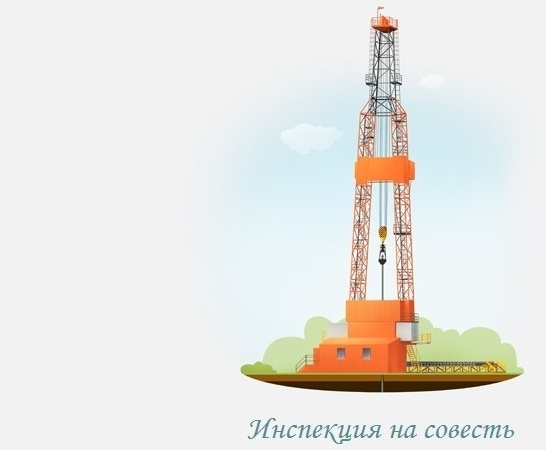
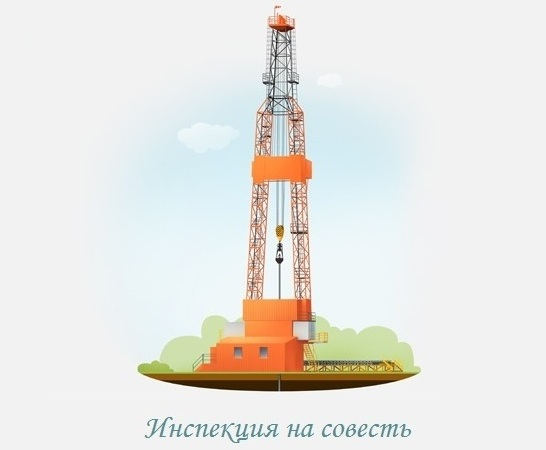
1

diff --git a/index.html b/index.html
@@ -45,7 +45,7 @@
 	</div>
 	<div class="g-right" style="width:650px;">
 	<p style="margin-left:0px;">
-    <img src="images/main.jpg" style="width:600px;height:450px;">
+    <img src="images/main.jpg" style="width:640px;height:450px;">
     </p>
 <p>&nbsp;</p>
 	</div>
